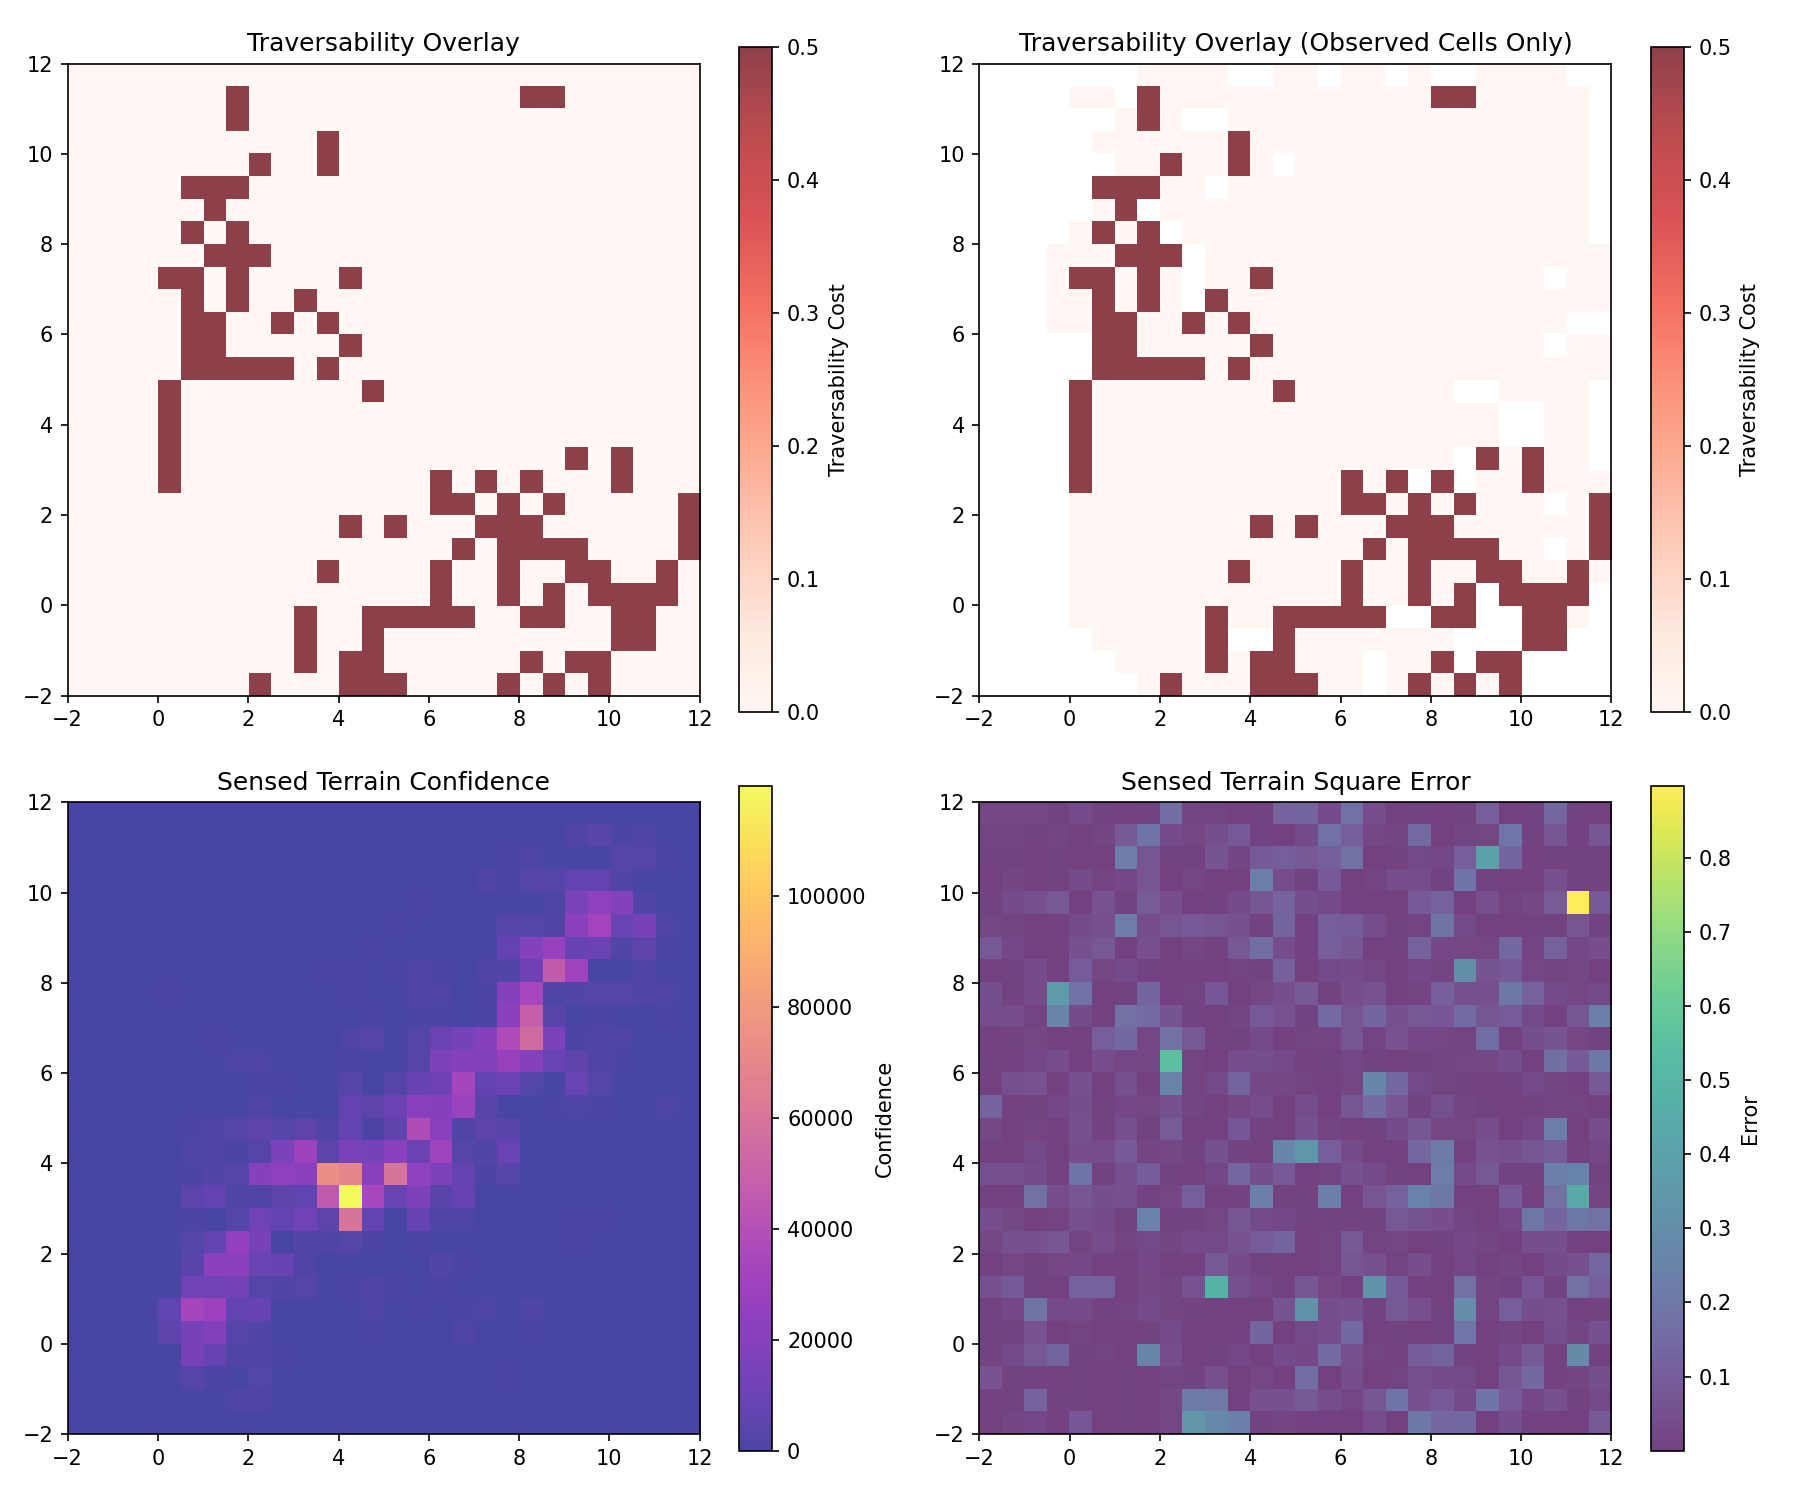
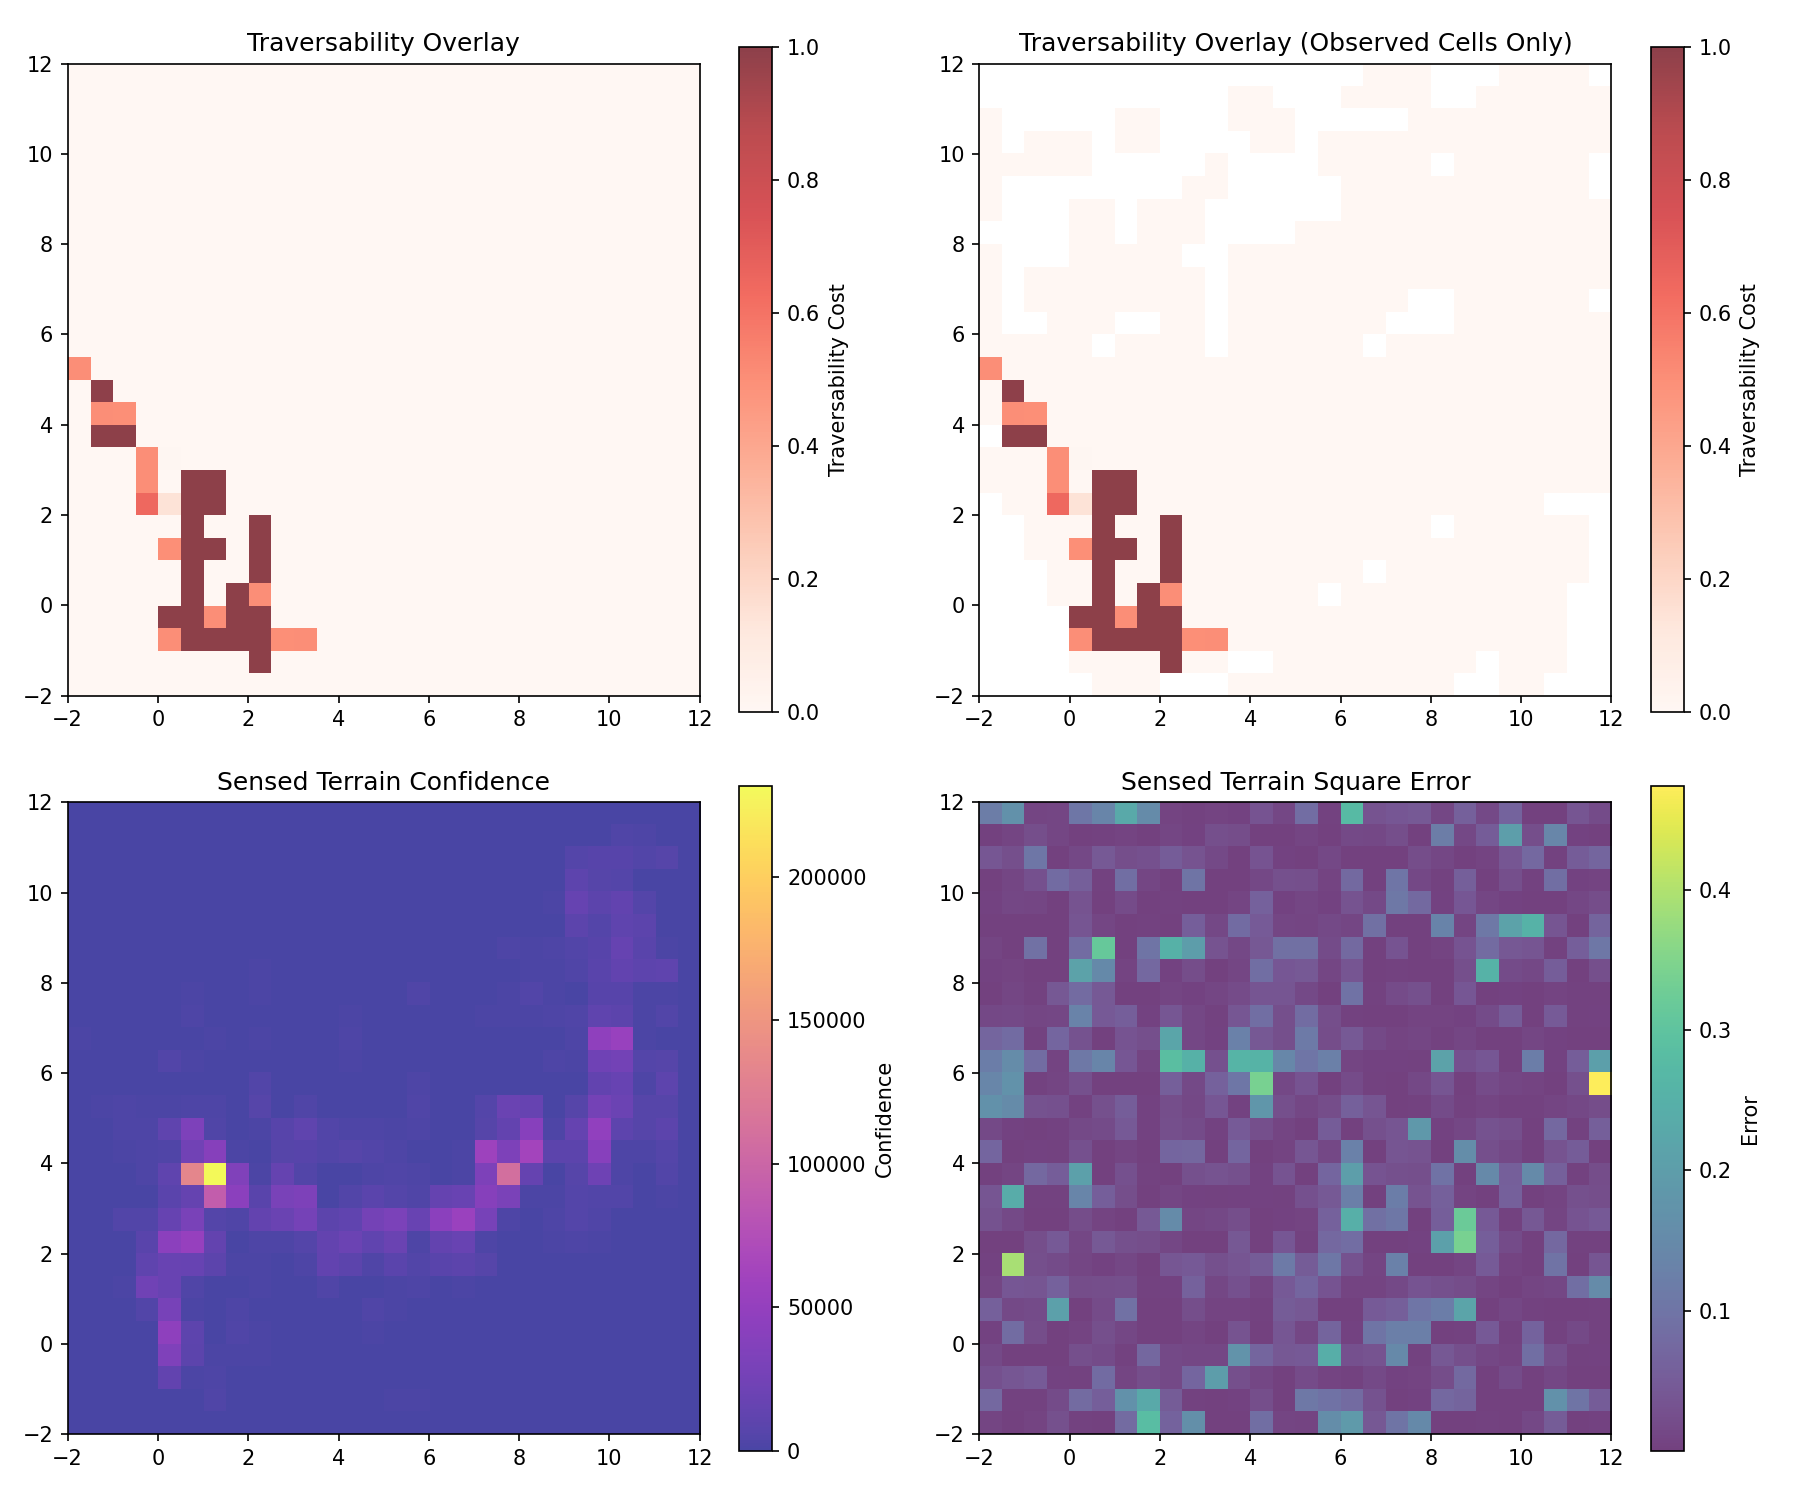
small robustness update

diff --git a/src/terraneousMPPI_test.py b/src/terraneousMPPI_test.py
@@ -82,7 +82,7 @@ else:
 
 
 config = MPPIConfig(
-    num_samples=15000,
+    num_samples=6500,
     horizon=40,
     dt=0.05,
     lambda_=30.0, # increase temperature for smoother trajectory
@@ -91,7 +91,7 @@ config = MPPIConfig(
     Qf=Qf_mod,
     R=R_mod,
 
-    Q_obs=190.0,
+    Q_obs=100.0,
     d_safe=env.robot_radius + 0.1,
 
     dynamics_params=np.array([2*env.robot_radius, 0.1]),
@@ -138,11 +138,11 @@ dem = DEMBuilder(origin=env_origin, cell_size=env_cell_size, grid_size=env_grid_
 
 waypoint_selector = WaypointSelector(
     grid_resolution=0.5,
-    grid_half_size=6,
+    grid_half_size=3,
     goal_weight=25.0,
     obstacle_weight=30.0,
-    terrain_weight=15.0,
-    heading_weight=1.5,
+    terrain_weight=12.5,
+    heading_weight=0.5,
     d_safe=config.d_safe
 )
 
@@ -307,7 +307,7 @@ for step in range(num_steps):
               f"Subgoal=({subgoal[0]:.2f},{subgoal[1]:.2f}), "
               f"position_error={np.linalg.norm(x[:2]-x_goal[:2]):.2f}, "
               f"safe={is_safe}, "
-              f"online={1e3*(_t_online-_t0):.1f}ms  wp={1e3*(_t_wp-_t_online):.1f}ms  mppi={1e3*_t_mppi:.1f}ms")
+              f"online={1e3*(_t_online-_t0):.1f}ms mppi={1e3*_t_mppi:.1f}ms")
         
     if (step % 50 == 0) and (step > 0):
         recent_disp = np.linalg.norm(trajectory[-1][:2] - trajectory[-50][:2])

diff --git a/environments/terraneousEnv.py b/environments/terraneousEnv.py
@@ -183,7 +183,7 @@ class TerraneousEnv:
         self.obstacles: List[Obstacle] = []
 
         self.terrain = None  # Placeholder for future terrain-aware behavior
-        self.dx = 0.05  # Terrain grid resolution in x direction
+        self.dx = 0.5  # Terrain grid resolution in x direction
         self.dy = self.dx # Terrain grid resolution in y direction
 
     def add_obstacle(self, obstacle: Obstacle) -> None:
@@ -377,7 +377,7 @@ class TerraneousEnv:
             return
         
         sigma_cells = self.dx
-        raw = 0.25*self.dx*np.random.randn(terrain_size_x, terrain_size_y).astype(np.float32)
+        raw = 0.7*self.dx*self.dx*np.random.randn(terrain_size_x, terrain_size_y).astype(np.float32)
         smooth = gaussian_filter(raw, sigma=sigma_cells)
         self.terrain = smooth.astype(np.float32)
 
